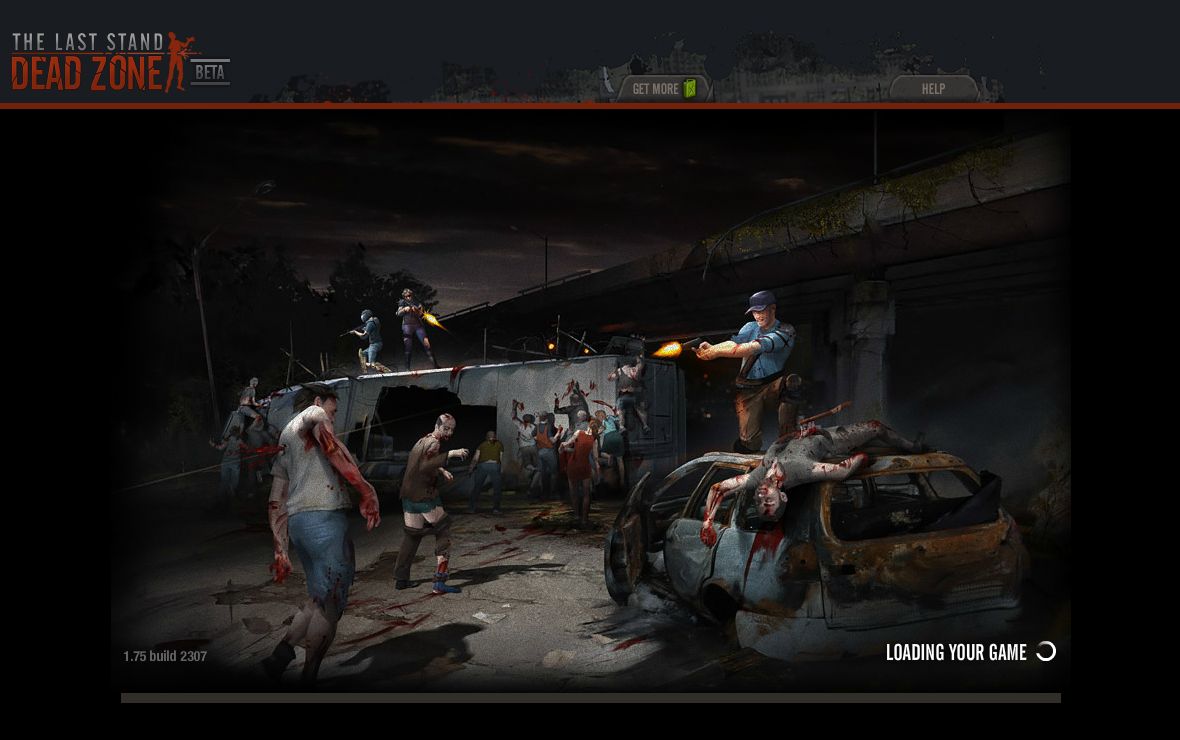
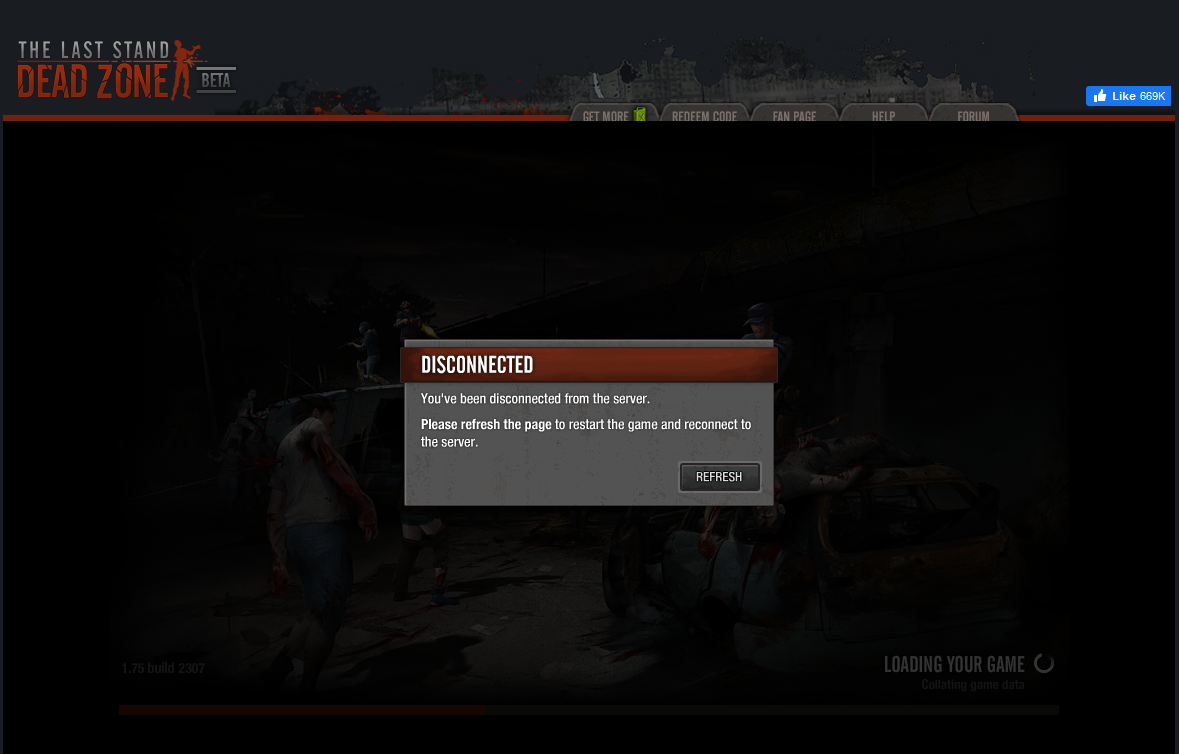
Update on latest progress

Changed region(s): [[0.0, 0.0311, 1.0, 1.0], [0.2137, 0.2486, 0.2443, 0.2797], [0.1527, 0.373, 0.1832, 0.4041]]

diff --git a/src/content/docs/intro.md b/src/content/docs/intro.md
@@ -34,20 +34,10 @@ See [preloader](/preloader-main) and [core](/core-main) to know how the game wor
 
 ### Current Investigation
 
-We have successfully serialized and deserialized message sent from client through our custom serde mechanism which is based on PlayerIO's. They likely defined their own serialization format, and we can't rely on msgpack. At least it worked for now.
+While the client-side game has all game resources, the server still send new resources overtime. There are few resources (like `config.xml`, `buildings.xml`, `resources_secondary.xml`) that must be sent every time.
 
-Client is now fully connected to the socket server and is ready to exchange real-time data with the game. It is now on 'Loading your game' text, which probably mean it is trying to load the player's game data. We may need to play around with DB because this must include loading player's account from DB or establishing a new account where the game (IIRC) initiate "new survivor" creation to the player. Later, it should save the newly made account to the DB and proceed to the tutorial.
-
-So, the next step is researching on how the game loads' data, what it expects, and possibly faking an account or data.
+The next step is the game loading player object, probably within the `onPlayerDataLoaded` function. One of the steps includes making a request to API 85, which is a player object request to BigDB. We are currently sending the default message, hence the game force us to refresh the game.
 
 :::info
 Any error from the client should be sent to the server via [API 50](/glossary#api-50).
-:::
-
-#### Note on Room
-
-:::note
-Room, in the context of PlayerIO means a separate instance of server side code. It is differentiated with room ID and room type. Different room may reside in different game servers and may be separated physically (detail about [PlayerIO room](https://playerio.com/documentation/services/multiplayer/essentials)).
-
-In TLSDZ, there are game, chat, trade, and alliance type of room (`thelaststand.app.network.RoomType`). This means there are 4+ isolated instance of game servers that may run at a time (taking alliance into consideration).
 :::

diff --git a/src/content/docs/core-main.md b/src/content/docs/core-main.md
@@ -21,7 +21,12 @@ still TBD, WIP. currently, info are not detailed.
   - Client sends the CreateJoinRoom response data it receives from API 27.
   - Socket server responds with a `playerio.joinresult` with either true (success) or false (failure with an error message) depending on whether the join data is valid or not.
   - Client verifies that it was a success and dispatches a "connected" event that marks it has successfully connected to the socket server and ready to progress further.
-- Loads game data (...)
+- `onGameReady` function from [Network.as](/thelaststand.app/network/network) runs.
+  - This function expects a message of length 5 and the type "gr". It includes the type itself, server time, binaries data (XML files from server), and 3 JSON dumps which are cost table data, survivor class table, and login player state.
+  - The socket server should send this message.
+  - The `onNetworkGameDataReceived` from core `Main.as` will be called every time the game receives XML files from server. The function simply load and update the currently used XML with the newly received XML.
+  - The JSON dumps will be parsed, and its data will be stored in local variable of Network class for later uses.
+  - Next is loading `PlayerObjects` from BigDB. A network error (which force disconnect the player) will be raised if it fails.
 
 ### Request made to API server
 
